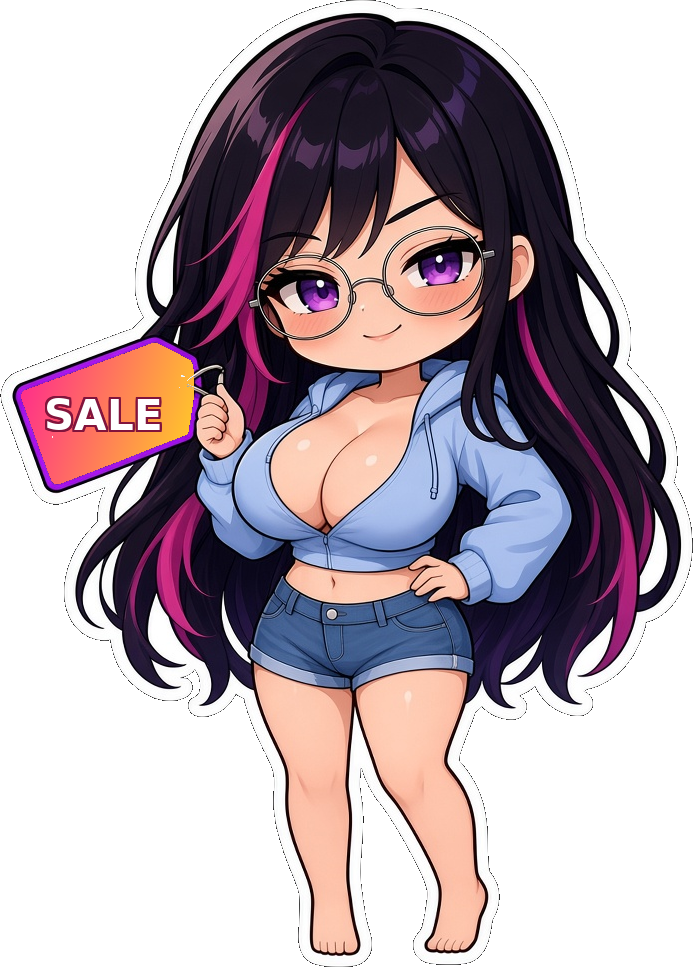
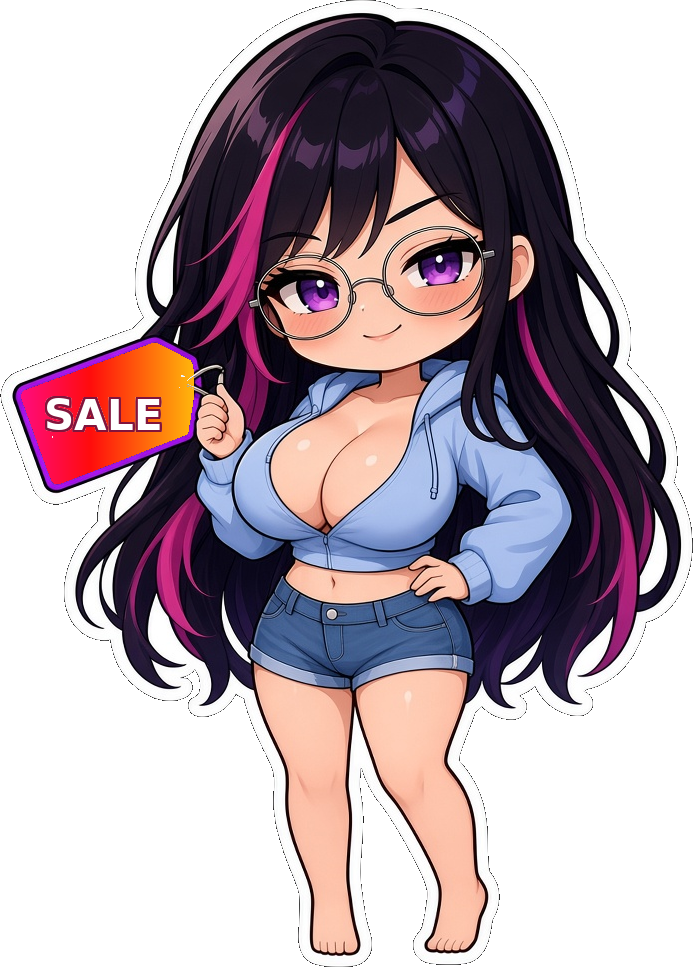
Brighten the sale flag to hot pink and gold.
The tag chibi stays. Only the flag fill changes, so the sign reads on dark covers without saying a fixed percent.

Changed region(s): [[0.0303, 0.3413, 0.303, 0.4964]]

diff --git a/src/lib/sale-badge.ts b/src/lib/sale-badge.ts
@@ -1,4 +1,4 @@
-/** Tag chibi with the black -30% plate repainted as a pink-to-gold SALE flag. */
+/** Tag chibi. The flag is hot pink to gold so it stays bright on dark covers. */
 export const SALE_STANDEE_SRC = "/shop/nsfw-droid-shop-vesper-chibi-sale-flag-standee.png";
 
 /** Badge percent for a listing. Hides a sale after saleEndsAt. */
